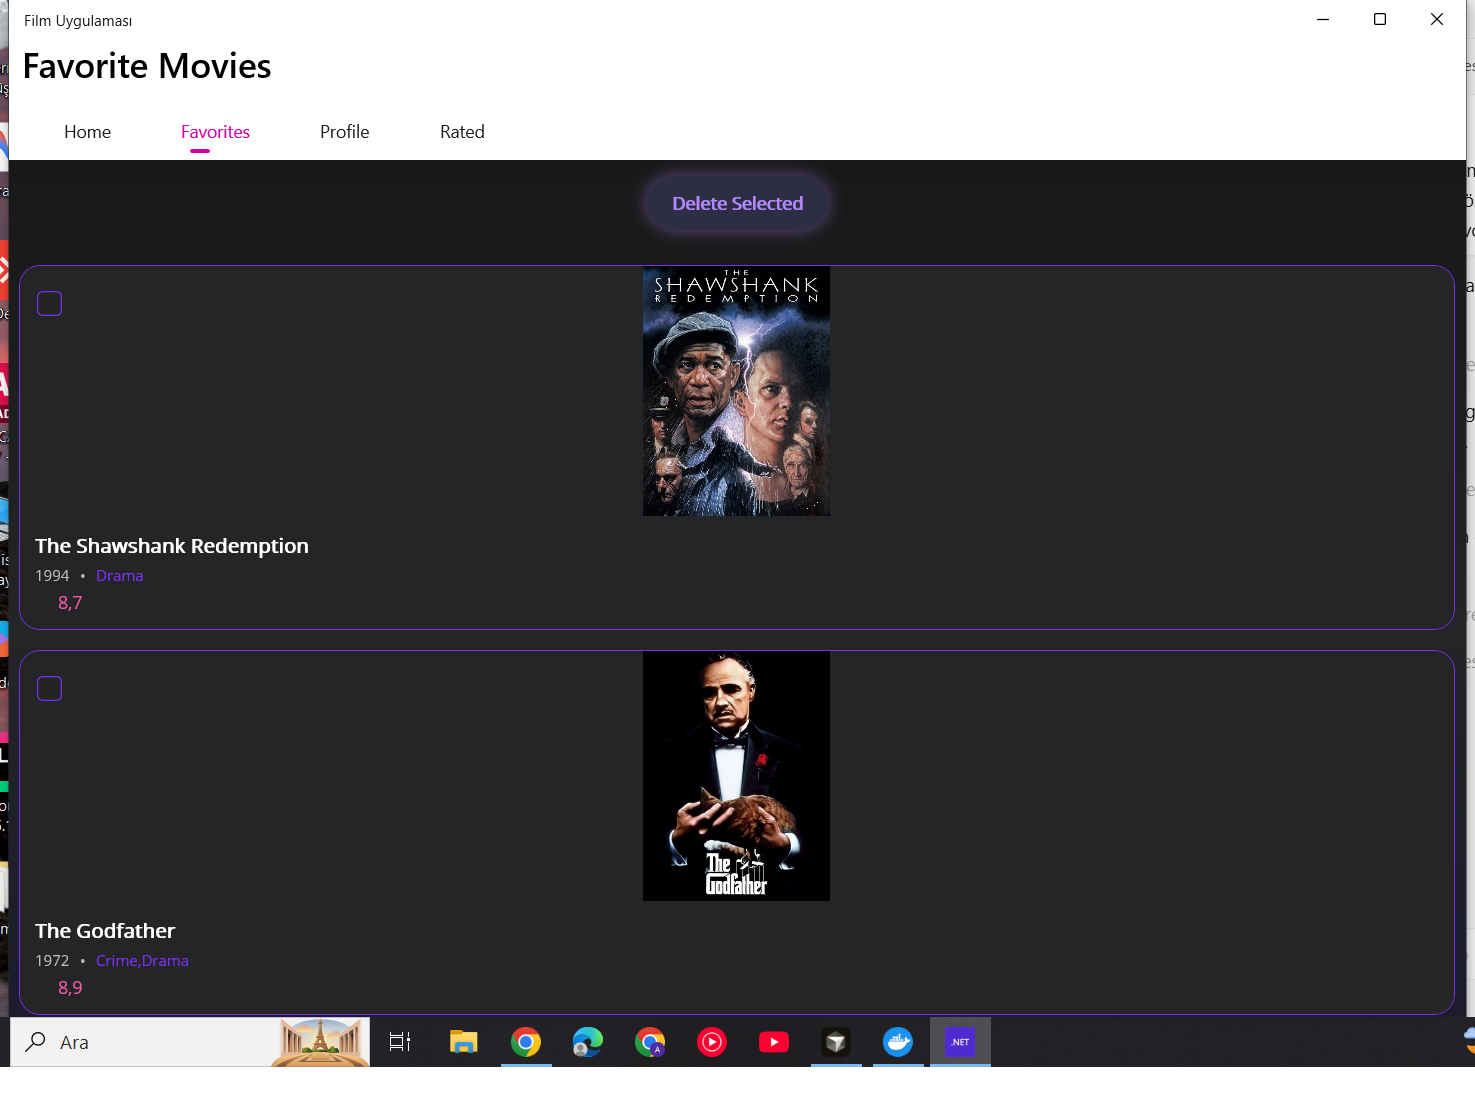
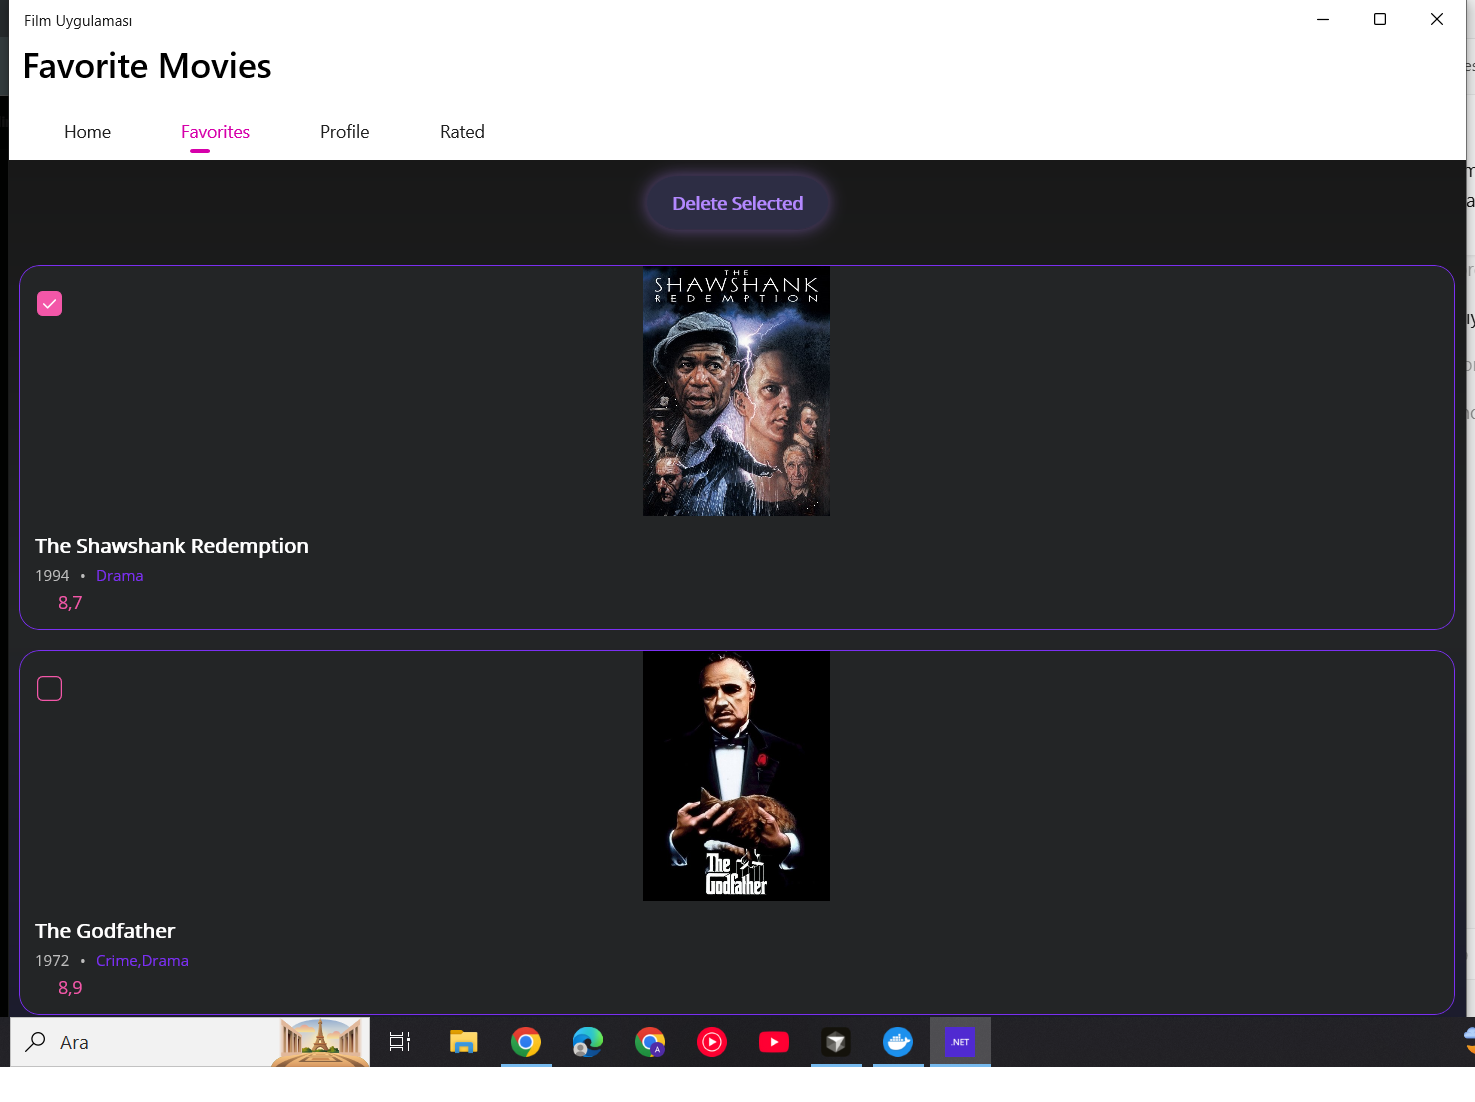
Show selected favorite for delete and clearer rate-movie UI in MAUI gallery.

diff --git a/index.html b/index.html
@@ -8,7 +8,7 @@
   <link rel="preconnect" href="https://fonts.googleapis.com" />
   <link rel="preconnect" href="https://fonts.gstatic.com" crossorigin />
   <link href="https://fonts.googleapis.com/css2?family=DM+Sans:ital,opsz,wght@0,9..40,400;0,9..40,500;0,9..40,600;0,9..40,700;1,9..40,400&family=Instrument+Serif:ital@0;1&display=swap" rel="stylesheet" />
-  <link rel="stylesheet" href="styles.css?v=20260920gallery2" />
+  <link rel="stylesheet" href="styles.css?v=20260920selrate" />
 </head>
 <body>
   <header class="site-header">
@@ -286,6 +286,6 @@
     <img alt="" />
   </div>
 
-  <script src="app.js?v=20260920gallery2"></script>
+  <script src="app.js?v=20260920selrate"></script>
 </body>
 </html>
